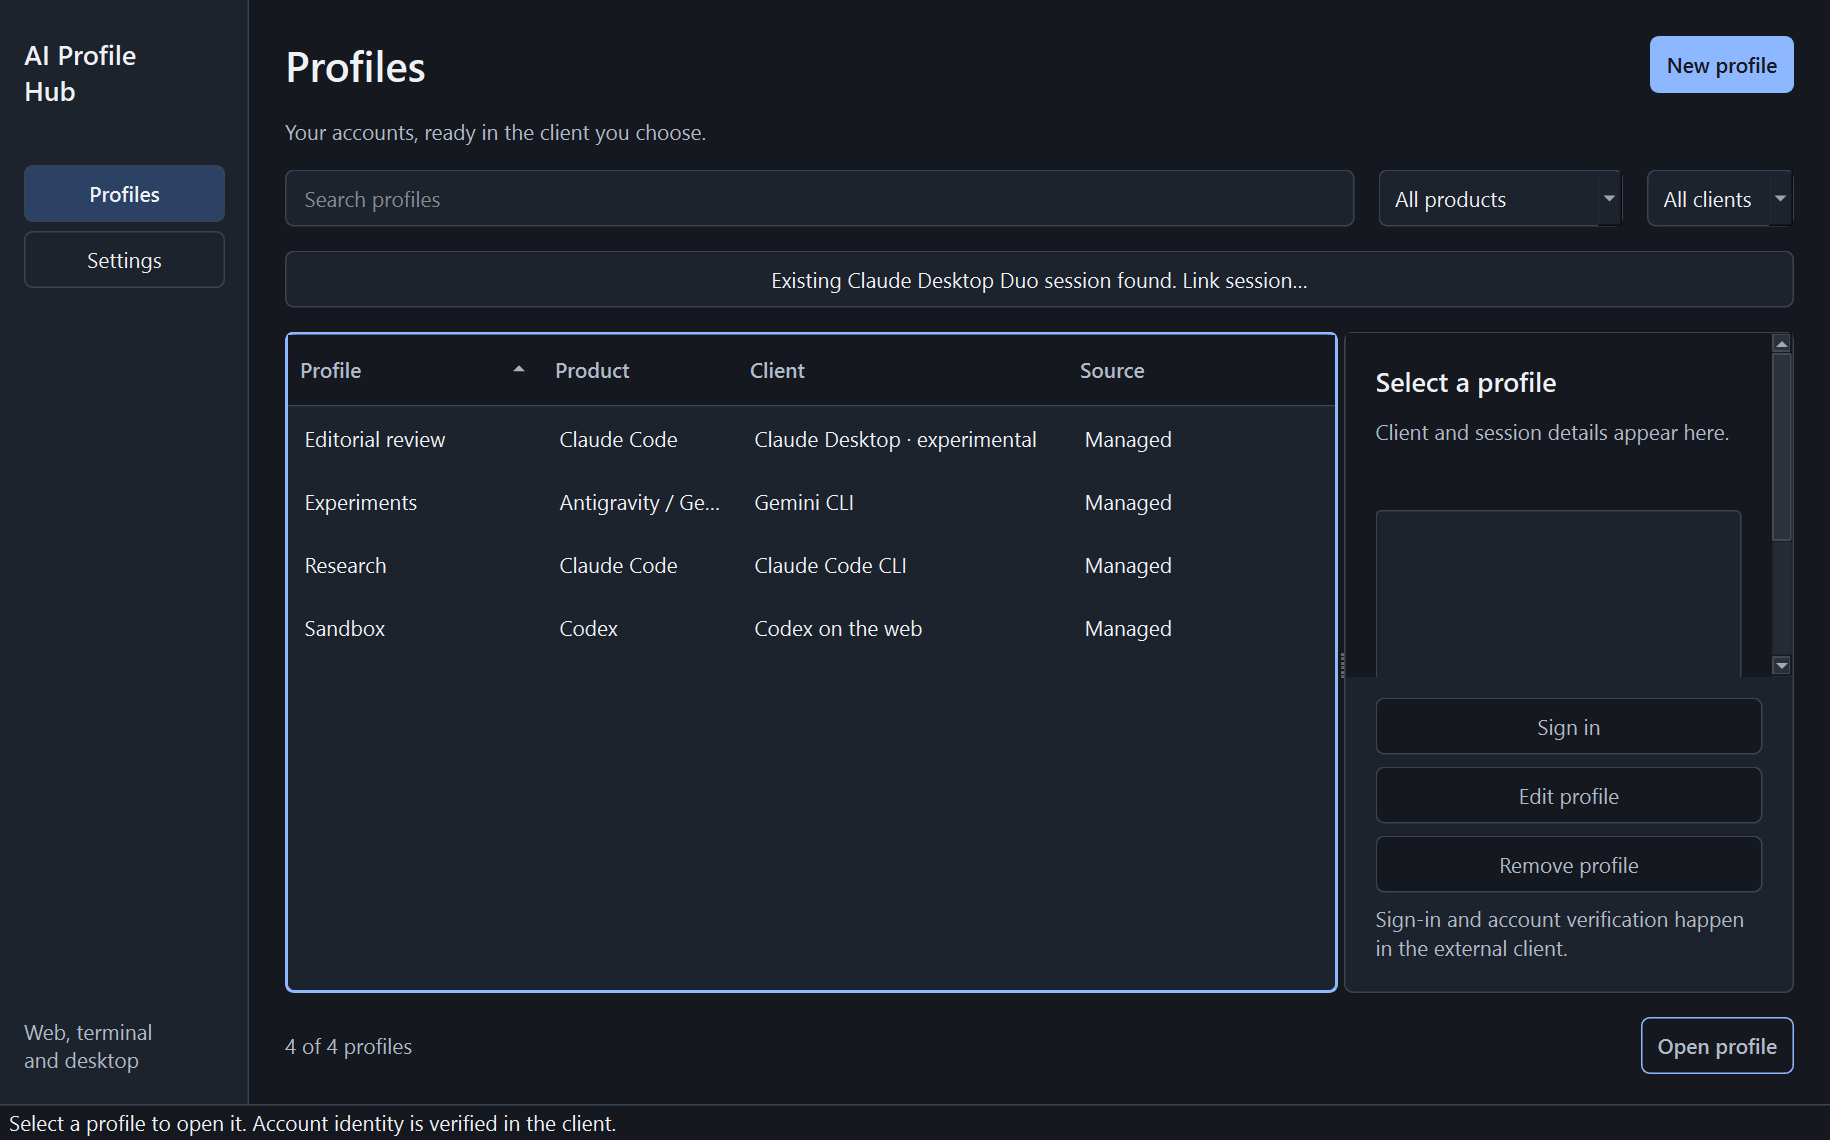
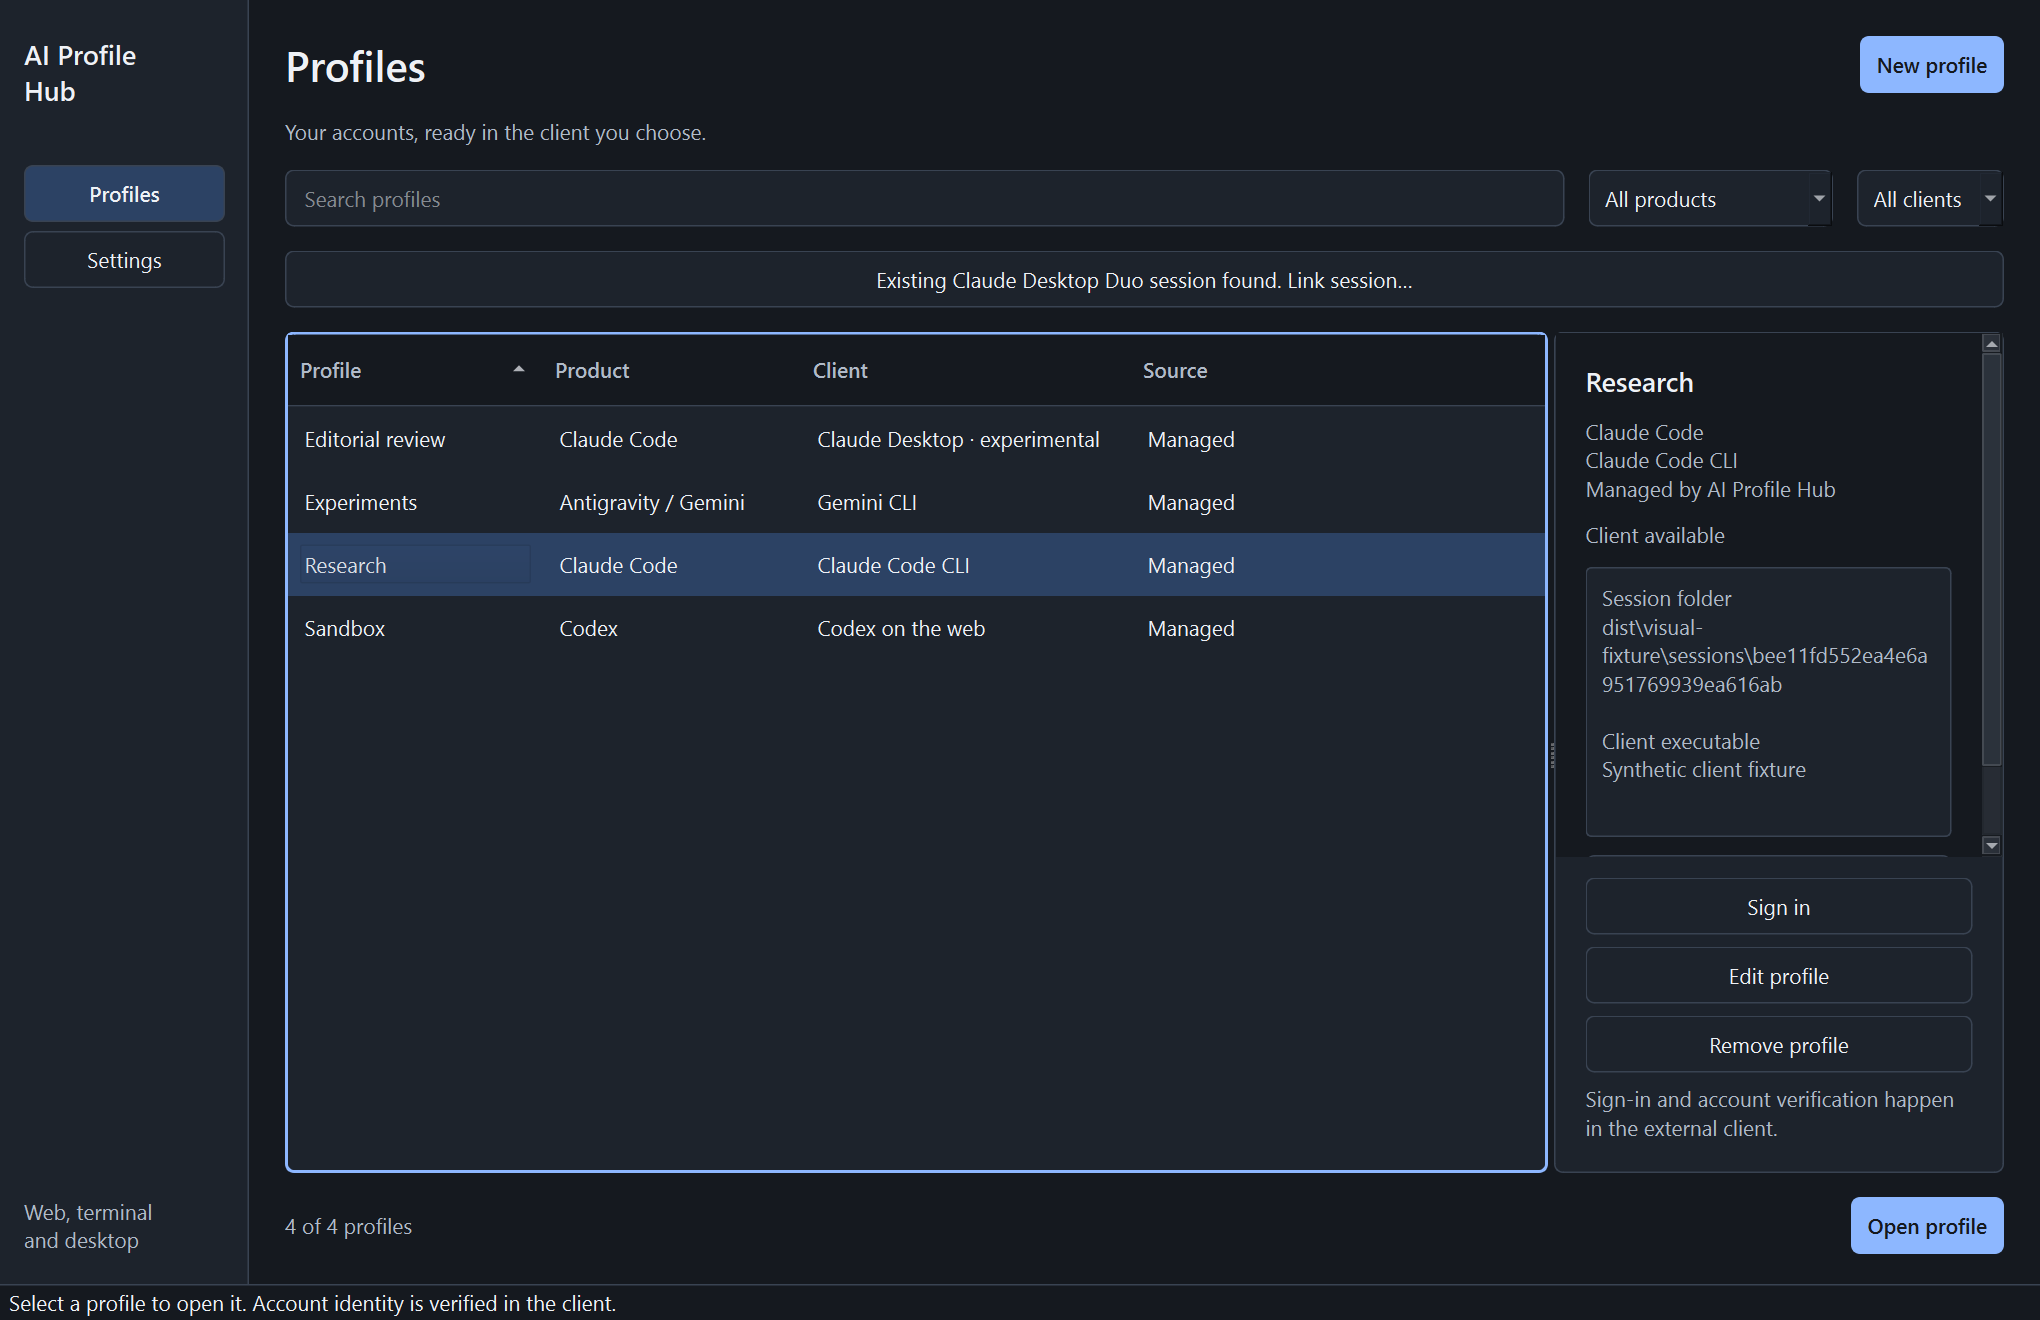
Refresh the quick start and profile screenshots

diff --git a/tools/capture_ui.py b/tools/capture_ui.py
@@ -39,6 +39,8 @@ def main():
         store.save('chatgpt', 'Sandbox', 'web')
         store.save('gemini', 'Experiments', 'gemini-cli')
     window = Launcher(store)
+    window.resize(1360, 880)
+    window.table.setColumnWidth(1, 172)
     window.show()
     (args.output / 'capture.json').write_text(json.dumps({
         'platform': sys.platform, 'device_pixel_ratio': window.devicePixelRatioF(),
@@ -57,13 +59,14 @@ def main():
     def profiles():
         window.change_theme('Light')
         window.clear_filters()
-        window.table.clearSelection()
-        window.table.setCurrentIndex(window.proxy.index(-1, -1))
-        app.processEvents()
+        window.select_id(selected.id)
+        QTimer.singleShot(150, themed_profiles)
+    def themed_profiles():
         window.grab().save(str(args.output / 'profiles-light.png'))
         window.change_theme('Dark')
         app.processEvents()
         window.grab().save(str(args.output / 'profiles-dark.png'))
+        window.change_theme('Light')
         window.new_profile()
         window.editor.name.setText('Work')
         QTimer.singleShot(150, editor)

diff --git a/README.md b/README.md
@@ -1,18 +1,19 @@
 # AI Profile Hub
 
-Desktop launcher for **Windows, macOS and Linux**, with a unified PySide6 / Qt Widgets interface. Find profiles for Claude Code, Codex and Antigravity / Gemini in one list, filter by product and client type, and open websites, terminal clients or desktop apps. Existing Claude Desktop Duo sessions on Windows appear alongside profiles managed by Hub.
+AI Profile Hub is a desktop launcher for **Windows, macOS and Linux**. If you use several AI accounts or clients, create a profile for each client you want to open. Find profiles for Claude Code, Codex and Antigravity / Gemini in one searchable list. On Windows you can also link an existing Claude Desktop Duo second session.
 
-![Unified profile list with search, product and client filters, and contextual details in the light theme. All data is synthetic.](docs/screenshots/profiles-light.png)
+![Light theme with four sample profiles, search and filters, and the selected Research profile's client and session details.](docs/screenshots/profiles-light.png)
 
 ## Quick start
 
-Open a terminal in the repository root after downloading or cloning the source.
+Download or clone the source and open a terminal in the repository root. Install Python 3.11 or later. You also need Chrome or Chromium for a web profile, or the provider's installed client for a terminal or desktop profile.
 
-Source runs require Python 3.11 or later and the dependencies in `requirements.txt`. Create a virtual environment and install them first. The launch scripts use the repository's `.venv` automatically.
+On Windows, run these commands in PowerShell with the Python launcher installed.
 
 ```powershell
 py -3 -m venv .venv
 .\.venv\Scripts\python -m pip install -r requirements.txt
+.\run.cmd
 ```
 
 On macOS and Linux:
@@ -20,27 +21,18 @@ On macOS and Linux:
 ```sh
 python3 -m venv .venv
 .venv/bin/python -m pip install -r requirements.txt
-```
-
-Standalone packages built below include Python and Qt. Keep the complete package folder together. Installed AI clients and Chrome or Chromium remain separate prerequisites. To open CLI profiles on Linux, you also need a graphical terminal such as GNOME Terminal, Konsole or xterm. On macOS, the first Terminal launch may require Automation permission.
-
-On Windows, double-click `run.cmd` or run it from PowerShell.
-
-```powershell
-.\run.cmd
-```
-
-On macOS and Linux, run the shell launcher.
-
-```sh
 ./run.sh
 ```
 
+On Windows you can double-click `run.cmd` after setup. On Linux, install the Qt runtime libraries for your distribution if Qt fails to load. The Ubuntu CI runner uses `libegl1` and `libopengl0`. Opening a terminal profile also requires a supported terminal such as GNOME Terminal, Konsole or xterm. On macOS, allow Automation access to Terminal if prompted.
+
 ## Create and open profiles
 
-1. Choose **New profile**, pick a product and client, and enter a name such as **Work**. Under **Advanced settings**, leave the executable blank for auto-detection or enter an absolute path. You can also set an existing working directory. Choose **Link existing session…** to reuse the second Claude Desktop Duo session on Windows; review its folder and choose **Link session** to confirm.
-2. Select the saved profile and choose **Open profile** or press Enter. For web profiles, sign in in the dedicated Chrome or Chromium window. For terminal profiles, choose **Sign in** or sign in from the client. The Codex CLI sign-in button uses device code authentication, which must be enabled for your account or workspace. [Codex authentication](https://learn.chatgpt.com/docs/auth)
-3. For desktop profiles, close other instances of the same client before choosing **Sign in**, then verify the account in the new window. To launch several profiles, hold Ctrl (Command on macOS) while selecting rows and choose **Open selected**.
+1. Choose **New profile**, pick a product and client, and enter a name such as **Work**. Under **Advanced settings**, leave the executable blank to let Hub find it, or set an absolute path for a terminal or desktop client. You can also set an existing working directory. Choose **Save profile**.
+2. Select the profile and choose **Open profile** or press Enter. For a web profile, sign in in the browser window that opens. For a terminal profile, choose **Sign in** or follow the client's sign-in instructions. The Codex CLI button uses device code authentication, which your account or workspace must allow. [Codex authentication](https://learn.chatgpt.com/docs/auth)
+3. For a desktop profile, close other instances of the same client before choosing **Sign in**. Verify the account in the new client window.
+
+To open several profiles, hold Ctrl (Command on macOS) while selecting rows and choose **Open selected**.
 
 ## Manage profiles and browser settings
 
@@ -56,13 +48,13 @@ On macOS and Linux, run the shell launcher.
 
 **Create a profile**
 
-![Workspace profile editor with product, client and name fields.](docs/screenshots/qt-profile-editor.png)
+![New profile form with Claude Code on the web selected, Work in the Name field, and the Save profile button.](docs/screenshots/qt-profile-editor.png)
 
 **Dark appearance**
 
-![The same unified profile list in dark appearance.](docs/screenshots/profiles-dark.png)
+![Dark theme with the Research profile selected and its client and session details visible.](docs/screenshots/profiles-dark.png)
 
-Screenshots captured from the Qt application on Windows on 2026-11-14 with synthetic data. Reproduce with `python tools/capture_ui.py`; captures and fixture databases default to ignored `dist/` folders. Earlier Tkinter captures are retained as historical assets.
+Captured from AI Profile Hub on Windows on 2026-11-14 using the Qt interface from revision `231554f` and synthetic data. [Capture instructions](docs/verification.md#reproduce).
 
 ## Reuse existing profiles
 
@@ -84,14 +76,14 @@ Screenshots captured from the Qt application on Windows on 2026-11-14 with synth
 - The browser receives a separate `--user-data-dir` for each profile. [Chromium documentation](https://chromium.googlesource.com/chromium/src/+/HEAD/docs/user_data_dir.md)
 - Claude Code receives `CLAUDE_CONFIG_DIR`. Anthropic documents this setting for signing in with different accounts. [Claude Code authentication](https://code.claude.com/docs/en/authentication)
 - Codex receives `CODEX_HOME` and `CODEX_SQLITE_HOME`. The profile's `file` setting stores credentials in `auth.json`. Organization-managed authentication rules take precedence. [Codex configuration](https://learn.chatgpt.com/docs/config-file/config-advanced) · [Credential storage](https://learn.chatgpt.com/docs/auth)
-- Gemini CLI receives `GEMINI_CLI_HOME` and uses the client's local credential storage. For `agy` and Antigravity, the launcher sets a dedicated process home and the relevant system directories. Google documents `~/.gemini/antigravity-cli/settings.json` and migration from Gemini CLI. Full `agy` authentication isolation still requires verification. [Gemini CLI](https://github.com/google-gemini/gemini-cli/blob/main/docs/cli/enterprise.md) · [Antigravity CLI settings](https://antigravity.google/docs/cli/using/) · [Google migration guide](https://antigravity.google/docs/cli/gcli-migration)
+- Local Google clients receive a dedicated process home, `GEMINI_CLI_HOME` and Cloud SDK directory. Inherited credential selectors are removed. An inherited Google gateway or custom-header override blocks launch with an explanation; ask your administrator to resolve managed configurations. System settings pointers remain available to the client. Google documents `~/.gemini/antigravity-cli/settings.json` and migration from Gemini CLI. Full `agy` authentication isolation still requires verification, including its shared keyring. See the [versioned authentication audit and limits](docs/google-authentication.md). [Gemini CLI](https://github.com/google-gemini/gemini-cli/blob/v0.68.0/docs/cli/enterprise.md) · [Antigravity CLI settings](https://antigravity.google/docs/cli/using/) · [Google migration guide](https://antigravity.google/docs/cli/gcli-migration)
 - On Windows, the launcher passes a dedicated profile folder to Claude Desktop. Update MSIX builds in the `2.42304.x` series, which can ignore this folder. Keeping one instance open for the first sign-in helps the browser return to the intended window. [MSIX issue](https://github.com/anthropics/claude-code/issues/103068)
 
 Profile data is stored under `%LOCALAPPDATA%\AIProfileSwitch` on Windows, `~/Library/Application Support/AI Profile Switch` on macOS and `~/.local/share/ai-profile-switch` on Linux. On Linux, an absolute `XDG_DATA_HOME` overrides `~/.local/share`. The launcher leaves authentication files under the client's control. Clients run as the same operating system user and can access the same projects and system services.
 
 ## Build and test
 
-The build checks Python syntax and uses `pyside6-deploy` / Nuitka to create a standalone folder (`.app` on macOS). The versioned configuration is `pysidedeploy.spec`. Install development dependencies in `.venv` first. Windows requires Visual Studio C++ Build Tools; macOS requires Xcode Command Line Tools; Linux requires a supported C compiler and the system libraries required by Qt. Compilation happens natively on each OS.
+The build uses `pyside6-deploy` and Nuitka to create a standalone folder or a macOS `.app`. Use the `.venv` from Quick start. Windows requires Visual Studio C++ Build Tools, macOS requires Xcode Command Line Tools, and Linux requires a supported C compiler and the Qt system libraries. Build on the operating system you want to package for.
 
 On Windows, with the Python launcher installed:
 
@@ -111,11 +103,9 @@ On macOS and Linux:
 .venv/bin/python tools/smoke_package.py
 ```
 
-Each build uses a fresh folder under `dist/native-builds/` and retains its intermediate files. `dist/latest-native.txt` records the executable path. `python build.py --dry-run` prints the deployment command. The previous dependency-free `.pyz` format is superseded by native packages; byte-for-byte reproducibility is not claimed for the new compiler toolchain. License texts and dependency notices accompany the package.
+Each build uses a fresh folder under `dist/native-builds/`. Open `dist/latest-native.txt` for the path to the executable. Keep the complete package folder or macOS app bundle together when moving it. The package includes Python, Qt and license notices. The browser and provider clients are separate installations.
 
-The GitHub Actions workflow defines tests on Python 3.11 and 3.13 across Windows, macOS and Linux, with native builds and package smoke tests on 3.13. Qt tests run offscreen in CI. `tools/smoke_package.py` verifies GUI startup and a bundled CLI session with an isolated synthetic client, without accessing real accounts. These checks do not substitute for native interactive client qualification; see [verification status](docs/verification.md).
-
-To check account isolation with an installed client, use two test accounts, restart both profiles and verify the account in each client. Desktop support remains experimental. Signing, notarization, releases and automatic updates are not configured by this change.
+The package smoke test checks help, GUI startup and a bundled CLI session using a synthetic client. For CI coverage, interactive testing and account isolation, see [verification status](docs/verification.md).
 
 ## Get help
 

diff --git a/docs/verification.md b/docs/verification.md
@@ -2,9 +2,9 @@
 
 ## Observed on Windows
 
-Verified on 2026-11-14 using Python 3.13.17 and 3.11.18, PySide6 / Qt 6.10.1 and Nuitka 2.8.9 (native package built with Python 3.13).
+On 2026-11-14, a clean checkout at `231554f` passed the README setup and build steps with Python 3.13.17, PySide6 6.10.1 and Nuitka 2.8.9. Source startup used `run.cmd --smoke-test` with a synthetic data directory. The test suite reported `36 passed in 9.44s`. The native build, package smoke test and capture command succeeded. The capture produced 11 PNGs at a device pixel ratio of 1.5.
 
-- 36 tests pass: previous backend behavior, database/session migration, client commands, linked Duo preservation, normalized deletion guards, inherited Gemini overrides, Qt interaction, error recovery and worker responsiveness.
+- The subsequent working tree with the Google authentication and pytest changes reported `43 passed, 14 subtests passed in 8.82s` with pytest 9.0.3. The new tests cover gateway refusal and preservation of managed settings.
 - Filtering 1,000 synthetic profiles with a combined text/product filter took approximately 26 ms in the final local test (acceptance budget: 150 ms). This is a local measurement, not a cross-platform benchmark or comparison against the previous UI.
 - A five-second synthetic operation left a 50 ms UI timer active and navigation available.
 - A standalone Windows package passed `--help`, Qt startup/close, and `--session` against a harmless CLI shim with an isolated data root. The shim received the expected per-profile `CLAUDE_CONFIG_DIR`; the executable ran from outside the source tree.
@@ -15,24 +15,40 @@ Local reports, native packages, screenshot matrices and synthetic databases are 
 
 ## Automated coverage and remaining qualification
 
-The CI configuration runs tests on Python 3.11 / 3.13 for Windows, macOS and Linux, and native builds/package smoke tests on 3.13. Qt tests use the offscreen platform in CI. Local verification does not establish a remote CI result; inspect the workflow run for the exact published commit before qualifying the matrix.
+The CI configuration runs tests on Python 3.11 / 3.13 for Windows, macOS and Linux, and native builds/package smoke tests on 3.13. Qt tests use the offscreen platform in CI. Manual qualification run `43611594432` used workflow revision `231554f` to check out application source `341e1c7`: all six jobs passed 36 tests each, and all three native package smoke steps passed. Push run `43611594501` for `231554f` passed the same checks. These successful results were observed before the historical runs were removed; local summaries remain in ignored `dist/ci-verification/`. Subsequent authentication and pytest changes have local Windows verification; those earlier runs do not qualify the newer changes.
 
-Native macOS/Linux interactive operation and packaging have not been observed in this Windows session. Test their terminal behavior, Qt dialogs, theme changes, keyboard shortcuts and packaged startup on the actual systems before qualifying those distributions. All 36 tests also passed locally on Python 3.11.18 on Windows.
+Native macOS/Linux interactive operation remains unqualified. CI verifies package compilation and offscreen startup, while terminal behavior, Qt dialogs, theme changes and keyboard shortcuts still require interactive checks on the actual systems. The baseline 36 tests also passed locally on Python 3.11.18 on Windows.
 
 Real provider authentication and multi-account isolation remain unqualified. Tests substitute clients and credentials; they do not demonstrate that a provider accepts or respects the configured home/data directories. Use two test accounts, verify identity after sign-in and after restarting each profile, and record the client version and OS.
 
-The inherited Gemini environment filter additionally removes `GOOGLE_CLOUD_ACCESS_TOKEN`, `GOOGLE_GENAI_USE_GCA`, `GOOGLE_GENAI_USE_VERTEXAI` and `GEMINI_CLI_USE_COMPUTE_ADC`. Parent environment variables and client-managed policy files are unchanged. A complete version-specific authentication inventory and live identity checks remain pending.
+The [Google authentication audit](google-authentication.md) records the reviewed versions, inherited credential selectors, gateway refusal and administrator-policy handling. Synthetic tests additionally verify separate Google process homes and Cloud SDK directories. Real identity and shared-keyring qualification remain pending.
 
 ## Reproduce
 
-```sh
-python -m pip install -r requirements-dev.txt
-python -m pytest -q --junitxml=dist/evidence/tests.xml
-python tools/capture_ui.py
-python build.py
-python tools/smoke_package.py
+Start with the virtual environment from [Quick start](../README.md#quick-start). Use the Windows commands below from the repository root.
+
+```powershell
+.\run.cmd --smoke-test
+.\.venv\Scripts\python -m pip install -r requirements-dev.txt
+.\.venv\Scripts\python -m pytest -q --junitxml=dist/evidence/tests.xml
+.\.venv\Scripts\python tools\capture_ui.py
+.\build.cmd
+.\.venv\Scripts\python tools\smoke_package.py
 ```
 
-Use the virtual environment's Python. `QT_SCALE_FACTOR` multiplies the screen's native scaling; each capture writes its actual device pixel ratio to `capture.json`. Adjust that multiplier to inspect 100%, 150% and 200% scaling. On Linux CI use `QT_QPA_PLATFORM=offscreen`; interactive desktop validation must also use the normal native platform plugin.
+On macOS and Linux, use the shell launcher and the virtual environment's Python.
 
-Each build retains a fresh staging directory and writes the executable path to `dist/latest-native.txt`. Build byte reproducibility, code signing, notarization, publication and automatic updates are not qualified or performed by this change.
+```sh
+./run.sh --smoke-test
+.venv/bin/python -m pip install -r requirements-dev.txt
+.venv/bin/python -m pytest -q --junitxml=dist/evidence/tests.xml
+.venv/bin/python tools/capture_ui.py
+./build.sh
+.venv/bin/python tools/smoke_package.py
+```
+
+The source smoke test opens and closes the GUI. It uses the normal profile data directory, so run it with a fresh data directory if you want to avoid migrating an existing database. The capture script uses synthetic fixtures under `dist/visual-fixture/` and writes images and `capture.json` to `dist/evidence/ui/`. `QT_SCALE_FACTOR` multiplies native display scaling. Read the resulting device pixel ratio in `capture.json`.
+
+On a headless Linux runner, use `QT_QPA_PLATFORM=offscreen` for Qt tests and smoke checks. Use the native Qt platform plugin for interactive validation. The saved macOS and Linux CI runs cover dependency installation, unit tests, the launcher help, builds and offscreen package smoke checks. The source GUI smoke and capture commands above were rerun on Windows for this guide.
+
+Each build retains a fresh staging directory and writes the executable path to `dist/latest-native.txt`. The package smoke script checks help, GUI startup and a CLI session with a synthetic client. Signing, notarization, byte reproducibility and automatic updates remain unqualified.
